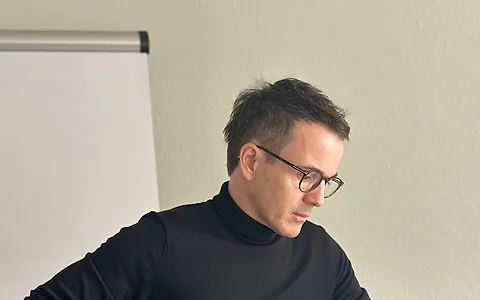
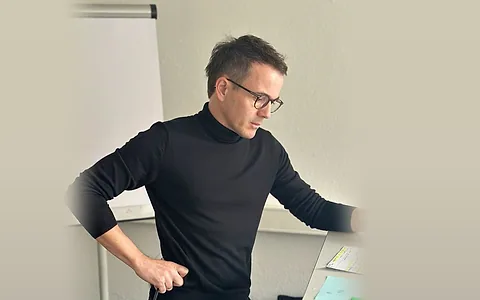
Insights-Cover scharf neu gebaut, Personalstrategie-Kachel mit erweitertem Bildausschnitt
- Insights-Cover: aus Vektorlogo und Schrift in 2560 px neu erzeugt (vorher Screenshot 824 px), gleicher Aufbau und Verlauf
- Artikelkopf: eigenes Desktop-Banner (2560x800) und Handy-Banner (1560x960), Komposition vollständig und unterhalb der fixen Navigation (vorher Logo oben angeschnitten, auf dem Handy doppeltes Logo)
- Personalstrategie-Kachel: Wand seitlich verlängert und Foto weich eingeblendet, Christian von Kopf bis Hüfte (vorher Kopf und Brust)

diff --git a/insights/happy-birthday-to-us.html b/insights/happy-birthday-to-us.html
@@ -62,7 +62,7 @@
   <main id="main" style="--accent:var(--yellow);--accent-ink:var(--yellow-ink);--accent-text:var(--ink)">
     <article>
       <section class="article-hero article-hero--masthead">
-        <div class="article-hero__bg" aria-hidden="true"><picture><source type="image/webp" srcset="../assets/img/insight-cover-640.webp 640w, ../assets/img/insight-cover-960.webp 960w, ../assets/img/insight-cover-1300.webp 1300w" sizes="100vw"><img src="../assets/img/insight-cover.jpg" alt="" width="824" height="464" fetchpriority="high" decoding="async"></picture></div>
+        <div class="article-hero__bg" aria-hidden="true"><picture><source media="(min-width: 721px)" type="image/webp" srcset="../assets/img/insight-banner-1280.webp 1280w, ../assets/img/insight-banner-1920.webp 1920w, ../assets/img/insight-banner-2560.webp 2560w" sizes="100vw"><source media="(max-width: 720px)" type="image/webp" srcset="../assets/img/insight-banner-m-780.webp 780w, ../assets/img/insight-banner-m-1560.webp 1560w" sizes="100vw"><source type="image/webp" srcset="../assets/img/insight-cover-640.webp 640w, ../assets/img/insight-cover-960.webp 960w, ../assets/img/insight-cover-1300.webp 1300w" sizes="100vw"><img src="../assets/img/insight-cover.jpg" alt="" width="824" height="464" fetchpriority="high" decoding="async"></picture></div>
       </section>
       <section class="section article-masthead-meta">
         <div class="container">

diff --git a/insights/integration-koenigsdisziplin.html b/insights/integration-koenigsdisziplin.html
@@ -62,7 +62,7 @@
   <main id="main" style="--accent:var(--violet);--accent-ink:var(--violet-ink);--accent-text:var(--ink)">
     <article>
       <section class="article-hero article-hero--masthead">
-        <div class="article-hero__bg" aria-hidden="true"><picture><source type="image/webp" srcset="../assets/img/insight-cover-640.webp 640w, ../assets/img/insight-cover-960.webp 960w, ../assets/img/insight-cover-1300.webp 1300w" sizes="100vw"><img src="../assets/img/insight-cover.jpg" alt="" width="824" height="464" fetchpriority="high" decoding="async"></picture></div>
+        <div class="article-hero__bg" aria-hidden="true"><picture><source media="(min-width: 721px)" type="image/webp" srcset="../assets/img/insight-banner-1280.webp 1280w, ../assets/img/insight-banner-1920.webp 1920w, ../assets/img/insight-banner-2560.webp 2560w" sizes="100vw"><source media="(max-width: 720px)" type="image/webp" srcset="../assets/img/insight-banner-m-780.webp 780w, ../assets/img/insight-banner-m-1560.webp 1560w" sizes="100vw"><source type="image/webp" srcset="../assets/img/insight-cover-640.webp 640w, ../assets/img/insight-cover-960.webp 960w, ../assets/img/insight-cover-1300.webp 1300w" sizes="100vw"><img src="../assets/img/insight-cover.jpg" alt="" width="824" height="464" fetchpriority="high" decoding="async"></picture></div>
       </section>
       <section class="section article-masthead-meta">
         <div class="container">

diff --git a/insights/kitas-im-wandel.html b/insights/kitas-im-wandel.html
@@ -62,7 +62,7 @@
   <main id="main" style="--accent:var(--yellow);--accent-ink:var(--yellow-ink);--accent-text:var(--ink)">
     <article>
       <section class="article-hero article-hero--masthead">
-        <div class="article-hero__bg" aria-hidden="true"><picture><source type="image/webp" srcset="../assets/img/insight-cover-640.webp 640w, ../assets/img/insight-cover-960.webp 960w, ../assets/img/insight-cover-1300.webp 1300w" sizes="100vw"><img src="../assets/img/insight-cover.jpg" alt="" width="824" height="464" fetchpriority="high" decoding="async"></picture></div>
+        <div class="article-hero__bg" aria-hidden="true"><picture><source media="(min-width: 721px)" type="image/webp" srcset="../assets/img/insight-banner-1280.webp 1280w, ../assets/img/insight-banner-1920.webp 1920w, ../assets/img/insight-banner-2560.webp 2560w" sizes="100vw"><source media="(max-width: 720px)" type="image/webp" srcset="../assets/img/insight-banner-m-780.webp 780w, ../assets/img/insight-banner-m-1560.webp 1560w" sizes="100vw"><source type="image/webp" srcset="../assets/img/insight-cover-640.webp 640w, ../assets/img/insight-cover-960.webp 960w, ../assets/img/insight-cover-1300.webp 1300w" sizes="100vw"><img src="../assets/img/insight-cover.jpg" alt="" width="824" height="464" fetchpriority="high" decoding="async"></picture></div>
       </section>
       <section class="section article-masthead-meta">
         <div class="container">

diff --git a/insights/machen-was-man-wirklich-kann.html b/insights/machen-was-man-wirklich-kann.html
@@ -62,7 +62,7 @@
   <main id="main" style="--accent:var(--violet);--accent-ink:var(--violet-ink);--accent-text:var(--ink)">
     <article>
       <section class="article-hero article-hero--masthead">
-        <div class="article-hero__bg" aria-hidden="true"><picture><source type="image/webp" srcset="../assets/img/insight-cover-640.webp 640w, ../assets/img/insight-cover-960.webp 960w, ../assets/img/insight-cover-1300.webp 1300w" sizes="100vw"><img src="../assets/img/insight-cover.jpg" alt="" width="824" height="464" fetchpriority="high" decoding="async"></picture></div>
+        <div class="article-hero__bg" aria-hidden="true"><picture><source media="(min-width: 721px)" type="image/webp" srcset="../assets/img/insight-banner-1280.webp 1280w, ../assets/img/insight-banner-1920.webp 1920w, ../assets/img/insight-banner-2560.webp 2560w" sizes="100vw"><source media="(max-width: 720px)" type="image/webp" srcset="../assets/img/insight-banner-m-780.webp 780w, ../assets/img/insight-banner-m-1560.webp 1560w" sizes="100vw"><source type="image/webp" srcset="../assets/img/insight-cover-640.webp 640w, ../assets/img/insight-cover-960.webp 960w, ../assets/img/insight-cover-1300.webp 1300w" sizes="100vw"><img src="../assets/img/insight-cover.jpg" alt="" width="824" height="464" fetchpriority="high" decoding="async"></picture></div>
       </section>
       <section class="section article-masthead-meta">
         <div class="container">

diff --git a/insights/angstfreie-organisationen.html b/insights/angstfreie-organisationen.html
@@ -62,7 +62,7 @@
   <main id="main" style="--accent:var(--green);--accent-ink:var(--green-ink)">
     <article>
       <section class="article-hero article-hero--masthead">
-        <div class="article-hero__bg" aria-hidden="true"><picture><source type="image/webp" srcset="../assets/img/insight-cover-640.webp 640w, ../assets/img/insight-cover-960.webp 960w, ../assets/img/insight-cover-1300.webp 1300w" sizes="100vw"><img src="../assets/img/insight-cover.jpg" alt="" width="824" height="464" fetchpriority="high" decoding="async"></picture></div>
+        <div class="article-hero__bg" aria-hidden="true"><picture><source media="(min-width: 721px)" type="image/webp" srcset="../assets/img/insight-banner-1280.webp 1280w, ../assets/img/insight-banner-1920.webp 1920w, ../assets/img/insight-banner-2560.webp 2560w" sizes="100vw"><source media="(max-width: 720px)" type="image/webp" srcset="../assets/img/insight-banner-m-780.webp 780w, ../assets/img/insight-banner-m-1560.webp 1560w" sizes="100vw"><source type="image/webp" srcset="../assets/img/insight-cover-640.webp 640w, ../assets/img/insight-cover-960.webp 960w, ../assets/img/insight-cover-1300.webp 1300w" sizes="100vw"><img src="../assets/img/insight-cover.jpg" alt="" width="824" height="464" fetchpriority="high" decoding="async"></picture></div>
       </section>
       <section class="section article-masthead-meta">
         <div class="container">

diff --git a/insights/empowered-by-strengths.html b/insights/empowered-by-strengths.html
@@ -62,7 +62,7 @@
   <main id="main" style="--accent:var(--pink);--accent-ink:var(--pink-ink)">
     <article>
       <section class="article-hero article-hero--masthead">
-        <div class="article-hero__bg" aria-hidden="true"><picture><source type="image/webp" srcset="../assets/img/insight-cover-640.webp 640w, ../assets/img/insight-cover-960.webp 960w, ../assets/img/insight-cover-1300.webp 1300w" sizes="100vw"><img src="../assets/img/insight-cover.jpg" alt="" width="824" height="464" fetchpriority="high" decoding="async"></picture></div>
+        <div class="article-hero__bg" aria-hidden="true"><picture><source media="(min-width: 721px)" type="image/webp" srcset="../assets/img/insight-banner-1280.webp 1280w, ../assets/img/insight-banner-1920.webp 1920w, ../assets/img/insight-banner-2560.webp 2560w" sizes="100vw"><source media="(max-width: 720px)" type="image/webp" srcset="../assets/img/insight-banner-m-780.webp 780w, ../assets/img/insight-banner-m-1560.webp 1560w" sizes="100vw"><source type="image/webp" srcset="../assets/img/insight-cover-640.webp 640w, ../assets/img/insight-cover-960.webp 960w, ../assets/img/insight-cover-1300.webp 1300w" sizes="100vw"><img src="../assets/img/insight-cover.jpg" alt="" width="824" height="464" fetchpriority="high" decoding="async"></picture></div>
       </section>
       <section class="section article-masthead-meta">
         <div class="container">

diff --git a/insights/kein-angebotsproblem-public-sector.html b/insights/kein-angebotsproblem-public-sector.html
@@ -62,7 +62,7 @@
   <main id="main" style="--accent:var(--cyan);--accent-ink:var(--cyan-ink)">
     <article>
       <section class="article-hero article-hero--masthead">
-        <div class="article-hero__bg" aria-hidden="true"><picture><source type="image/webp" srcset="../assets/img/insight-cover-640.webp 640w, ../assets/img/insight-cover-960.webp 960w, ../assets/img/insight-cover-1300.webp 1300w" sizes="100vw"><img src="../assets/img/insight-cover.jpg" alt="" width="824" height="464" fetchpriority="high" decoding="async"></picture></div>
+        <div class="article-hero__bg" aria-hidden="true"><picture><source media="(min-width: 721px)" type="image/webp" srcset="../assets/img/insight-banner-1280.webp 1280w, ../assets/img/insight-banner-1920.webp 1920w, ../assets/img/insight-banner-2560.webp 2560w" sizes="100vw"><source media="(max-width: 720px)" type="image/webp" srcset="../assets/img/insight-banner-m-780.webp 780w, ../assets/img/insight-banner-m-1560.webp 1560w" sizes="100vw"><source type="image/webp" srcset="../assets/img/insight-cover-640.webp 640w, ../assets/img/insight-cover-960.webp 960w, ../assets/img/insight-cover-1300.webp 1300w" sizes="100vw"><img src="../assets/img/insight-cover.jpg" alt="" width="824" height="464" fetchpriority="high" decoding="async"></picture></div>
       </section>
       <section class="section article-masthead-meta">
         <div class="container">

diff --git a/insights/private-hochschulen-unter-druck.html b/insights/private-hochschulen-unter-druck.html
@@ -62,7 +62,7 @@
   <main id="main" style="--accent:var(--pink);--accent-ink:var(--pink-ink)">
     <article>
       <section class="article-hero article-hero--masthead">
-        <div class="article-hero__bg" aria-hidden="true"><picture><source type="image/webp" srcset="../assets/img/insight-cover-640.webp 640w, ../assets/img/insight-cover-960.webp 960w, ../assets/img/insight-cover-1300.webp 1300w" sizes="100vw"><img src="../assets/img/insight-cover.jpg" alt="" width="824" height="464" fetchpriority="high" decoding="async"></picture></div>
+        <div class="article-hero__bg" aria-hidden="true"><picture><source media="(min-width: 721px)" type="image/webp" srcset="../assets/img/insight-banner-1280.webp 1280w, ../assets/img/insight-banner-1920.webp 1920w, ../assets/img/insight-banner-2560.webp 2560w" sizes="100vw"><source media="(max-width: 720px)" type="image/webp" srcset="../assets/img/insight-banner-m-780.webp 780w, ../assets/img/insight-banner-m-1560.webp 1560w" sizes="100vw"><source type="image/webp" srcset="../assets/img/insight-cover-640.webp 640w, ../assets/img/insight-cover-960.webp 960w, ../assets/img/insight-cover-1300.webp 1300w" sizes="100vw"><img src="../assets/img/insight-cover.jpg" alt="" width="824" height="464" fetchpriority="high" decoding="async"></picture></div>
       </section>
       <section class="section article-masthead-meta">
         <div class="container">

diff --git a/insights/vision-statt-verwaltung.html b/insights/vision-statt-verwaltung.html
@@ -62,7 +62,7 @@
   <main id="main" style="--accent:var(--cyan);--accent-ink:var(--cyan-ink)">
     <article>
       <section class="article-hero article-hero--masthead">
-        <div class="article-hero__bg" aria-hidden="true"><picture><source type="image/webp" srcset="../assets/img/insight-cover-640.webp 640w, ../assets/img/insight-cover-960.webp 960w, ../assets/img/insight-cover-1300.webp 1300w" sizes="100vw"><img src="../assets/img/insight-cover.jpg" alt="" width="824" height="464" fetchpriority="high" decoding="async"></picture></div>
+        <div class="article-hero__bg" aria-hidden="true"><picture><source media="(min-width: 721px)" type="image/webp" srcset="../assets/img/insight-banner-1280.webp 1280w, ../assets/img/insight-banner-1920.webp 1920w, ../assets/img/insight-banner-2560.webp 2560w" sizes="100vw"><source media="(max-width: 720px)" type="image/webp" srcset="../assets/img/insight-banner-m-780.webp 780w, ../assets/img/insight-banner-m-1560.webp 1560w" sizes="100vw"><source type="image/webp" srcset="../assets/img/insight-cover-640.webp 640w, ../assets/img/insight-cover-960.webp 960w, ../assets/img/insight-cover-1300.webp 1300w" sizes="100vw"><img src="../assets/img/insight-cover.jpg" alt="" width="824" height="464" fetchpriority="high" decoding="async"></picture></div>
       </section>
       <section class="section article-masthead-meta">
         <div class="container">
